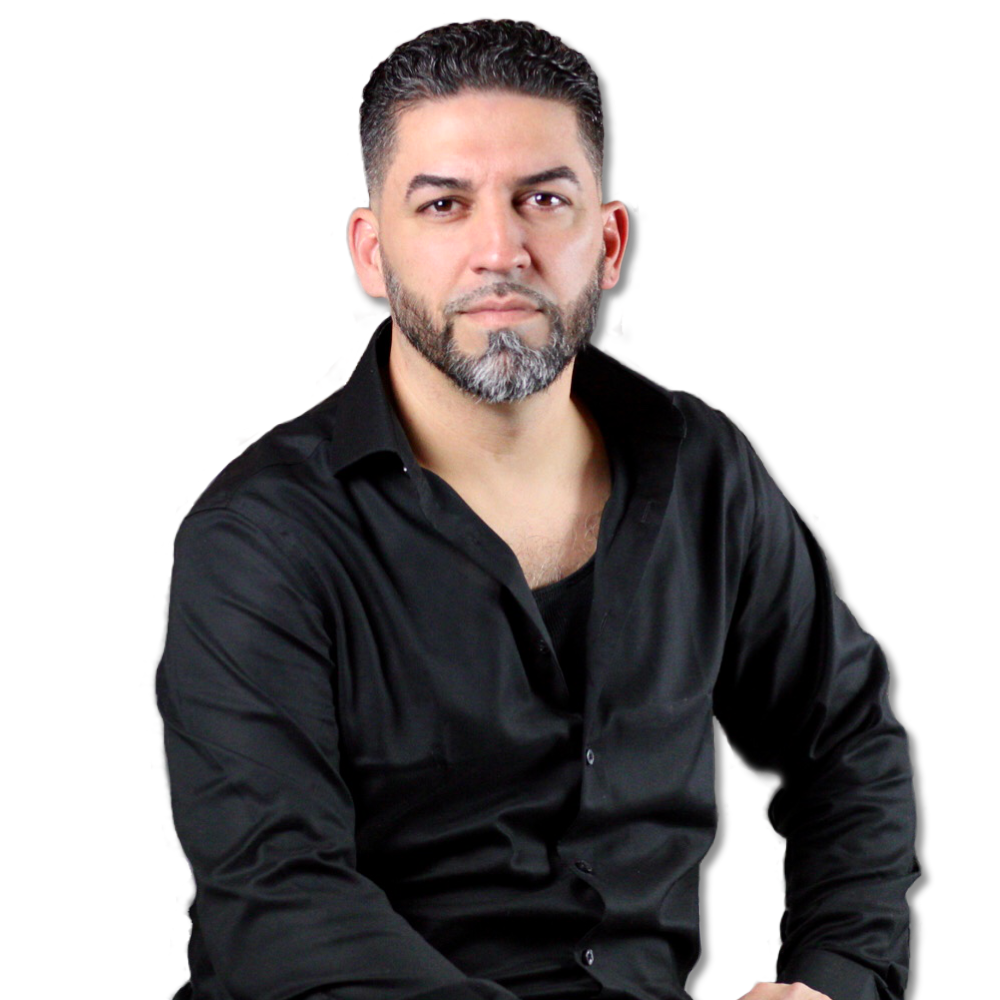
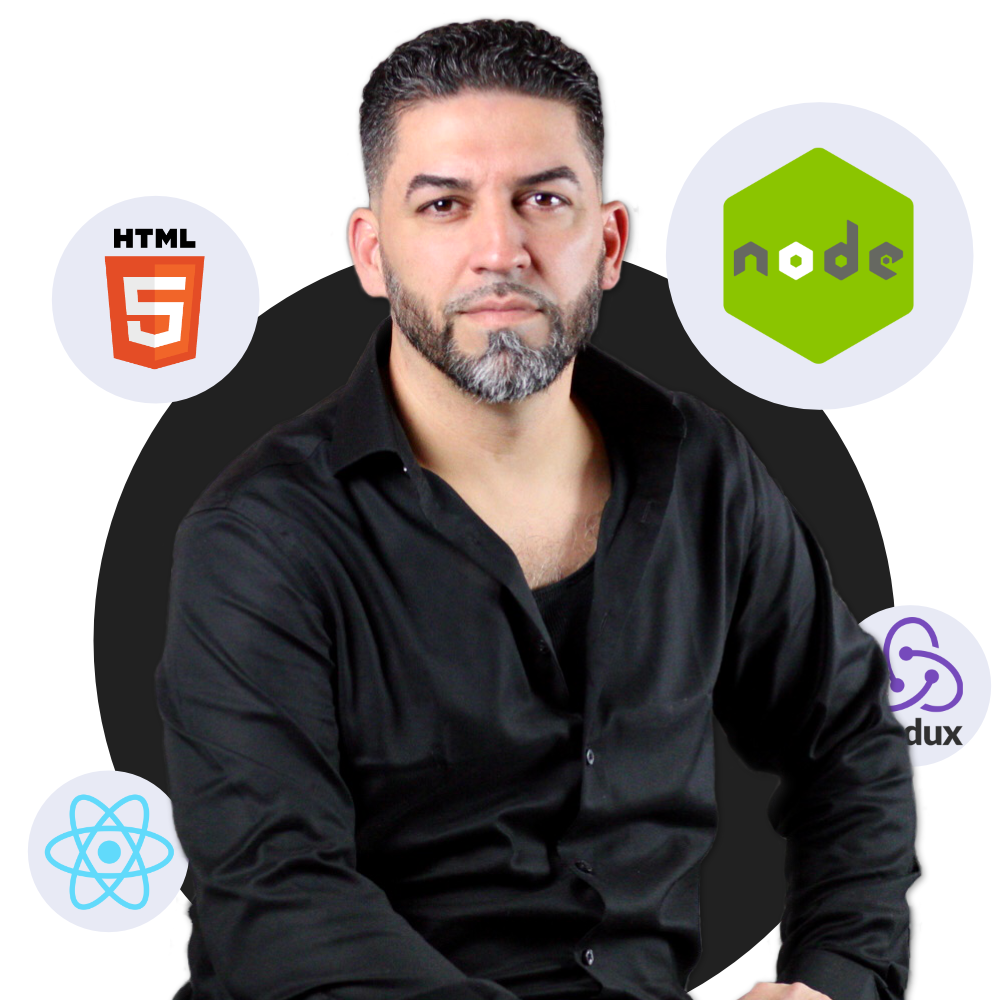
refactor code

diff --git a/src/components/Projects/index.js b/src/components/Projects/index.js
@@ -72,6 +72,8 @@ const Projects = () => {
                 <div className="flex flex-wrap space-x-2 mt-5">
                   <a
                     href={project.live}
+                    target="_blank"
+                    rel="noreferrer"
                     aria-label=""
                     className="inline-flex px-4 py-2 items-center transform font-semibold border transition duration-300 hover:scale-105 shadow hover:shadow-lg"
                   >
@@ -79,8 +81,10 @@ const Projects = () => {
                   </a>
                   <a
                     href={project.github}
+                    target="_blank"
+                    rel="noreferrer"
                     aria-label=""
-                    className="inline-flex bg-blue-accent-200 hover:bg-blue-accent-700 shadow-sm hover:shadow-lg px-4 py-2 items-center font-semibold transition duration-300 hover:scale-105 text-white"
+                    className="inline-flex bg-blue-accent-200 hover:bg-blue-accent-700 shadow hover:shadow-lg px-4 py-2 items-center font-semibold transition duration-300 hover:scale-105 text-white"
                   >
                     Source Code
                   </a>

diff --git a/src/components/Skills/index.js b/src/components/Skills/index.js
@@ -40,7 +40,7 @@ const Skills = () => {
           <div key={index} className="text-center">
           <div className="flex items-center justify-center w-16 h-16 mb-4 rounded-full bg-indigo-50 mx-auto sm:w-24 sm:h-24">
             <i
-              className="text-blue-accent-700 text-4xl fab fa-html5"
+              className={skill.icon}
               aria-hidden="true"
             ></i>
           </div>
@@ -50,7 +50,7 @@ const Skills = () => {
           {skill.skills.map((item, index) => (
             <p
               key={index}
-              className="max-w-md mb-3 text-sm text-gray-900 sm:mx-auto"
+              className="max-w-md mb-3 text-sm text-gray-900 mx-auto"
             >
               {item}
             </p>

diff --git a/src/components/hero/index.js b/src/components/hero/index.js
@@ -20,9 +20,9 @@ const Hero = () => {
               <a
                 href="#about-me"
                 onClick={handleScroll}
-                className="items-center h-12 px-6 py-3 font-medium tracking-wide text-white transition duration-200 rounded shadow-md bg-blue-accent-400 hover:bg-blue-accent-700 focus:shadow-outline focus:outline-none"
+                className="items-center h-12 px-6 py-3 font-medium tracking-wide text-white transition duration-200 rounded shadow-md bg-blue-accent-400 hover:bg-blue-accent-700"
               >
-                LEARN MORE
+                Learn More
               </a>
             </div>
           </div>

diff --git a/src/utils/skills.js b/src/utils/skills.js
@@ -1,6 +1,6 @@
 const skills = [
   {
-    icon: "fab fa-html5",
+    icon: "text-blue-accent-700 text-4xl fab fa-html5",
     title: "FrontEnd",
     skills: [
       "HTML",
@@ -16,7 +16,7 @@ const skills = [
     ],
   },
   {
-    icon: "fa-solid fa-code",
+    icon: "text-blue-accent-700 text-4xl fa-solid fa-code",
     title: "BackEnd",
     skills: [
       "NodeJS",
@@ -32,7 +32,7 @@ const skills = [
     ],
   },
   {
-    icon: "fa-solid fa-screwdriver-wrench",
+    icon: "text-blue-accent-700 text-4xl fa-solid fa-screwdriver-wrench",
     title: "Tools",
     skills: [
       "Git",

diff --git a/src/utils/projectsList.js b/src/utils/projectsList.js
@@ -2,7 +2,7 @@ import Blog from "../img/blog.png";
 import BookMe from "../img/bookme.png";
 import ConnectMe from "../img/connectme.png";
 import ProPet from "../img/petstore.png";
-import IMS from "../img/ims.png";
+import IMS from "../img/IMS.png";
 import CoinHiz from "../img/coinhiz.png";
 
 const projects = [
